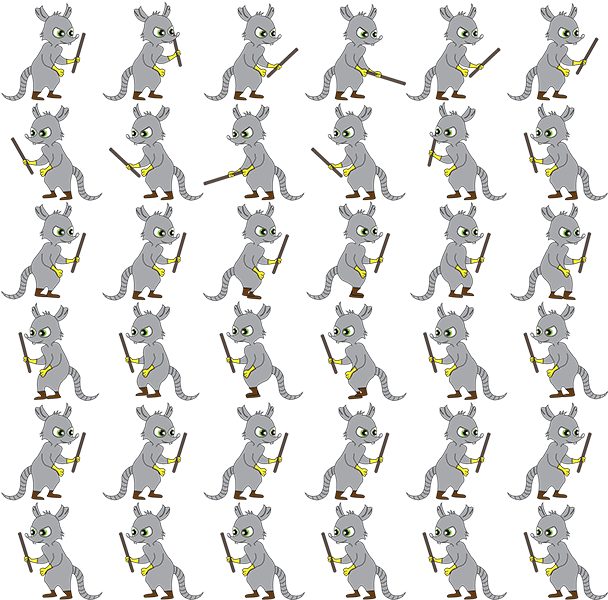
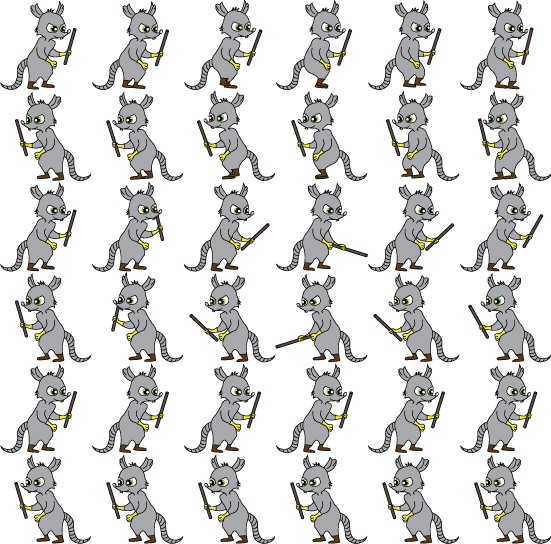
Match frames in Rat.Move with movement Fix #21
Now when flipping while hitting, the texture flips too.

diff --git a/src/Entities/Rat.cs b/src/Entities/Rat.cs
@@ -121,7 +121,6 @@ namespace Ratcycle
             {
 				_position.Y -= _speed.Y;
 
-                Console.WriteLine(_flip);
                 if (_flip)
                     ChangeFrame(3);
                 else
@@ -132,9 +131,9 @@ namespace Ratcycle
 				_position.Y += _speed.Y;
 
                 if (_flip)
-                    ChangeFrame(3);
+                    ChangeFrame(1);
                 else
-                    ChangeFrame(2);
+                    ChangeFrame(0);
 			}
 			if (KeyHandler.IsKeyDown(_left)) 
             {
@@ -143,7 +142,7 @@ namespace Ratcycle
 					_position.X += 25;
 				}
 
-				ChangeFrame (3);
+				ChangeFrame (1);
 				
 				_flip = true;
                 if (view.NotColliding(this, MakeFutureRectangle(Directions.Left), _minCoords, _maxCoords))
@@ -158,7 +157,7 @@ namespace Ratcycle
 						_position.X -= 25;
 					}
 
-					ChangeFrame (2);
+					ChangeFrame (0);
 					
 					_flip = false;
                     if (view.NotColliding(this, MakeFutureRectangle(Directions.Right), _minCoords, _maxCoords))
@@ -185,9 +184,9 @@ namespace Ratcycle
 
                 //Animate
 				if (_flip)
-					StartSingleMovement(1);
+					StartSingleMovement(3);
 				else
-					StartSingleMovement(0);
+					StartSingleMovement(2);
 				
                 ((Stage)_parentView).AttackHandler(this, _damage, AttackBox);
             }
@@ -229,7 +228,6 @@ namespace Ratcycle
 
             if (_remainingRegenTime <= 0 && _health < (100 * (0.75f * (float) Model.Stage.Reached)))
             {
-                Console.WriteLine(_health);
                 health += regen;
 
                 if (health > (100 * (0.75 * (float) Model.Stage.Reached)))

diff --git a/src/GameObjects/AtlasObject.cs b/src/GameObjects/AtlasObject.cs
@@ -20,7 +20,7 @@ namespace Ratcycle
         private float _rotation = 0f;
         private int _currentX, _currentY = 0;
         private Vector2 _origin = Vector2.Zero;
-		private bool _lockedInMovement = false;
+		private bool _lockedInMotion = false;
 
 		public virtual Rectangle HitBox
         {
@@ -92,7 +92,7 @@ namespace Ratcycle
 		/// <param name="y">The y coordinate.</param>
         public void ChangeFrame(int y)
         {
-			if (!_lockedInMovement) 
+			if (!_lockedInMotion) 
 			{
 				_currentY = y;
 				_sourceRectangle.Y = y * _frameHeight;
@@ -109,17 +109,21 @@ namespace Ratcycle
 				_currentX = x;
 				_sourceRectangle.X = x * _frameWidth;
 
-			if (!_lockedInMovement) 
+			if (!_lockedInMotion) 
 			{
 				_currentY = y;
 				_sourceRectangle.Y = y * _frameHeight;
 			}
         }
 
-		public void StartSingleMovement(int y)
+		public void StartSingleMotion(int y)
 		{
-			ChangeFrame (0, y);
-			_lockedInMovement = true;
+			_currentX = 0;
+			_sourceRectangle.X = 0;
+			_currentY = y;
+			_sourceRectangle.Y = y * _frameHeight;
+
+			_lockedInMotion = true;
 		}
 
 		/// <summary>
@@ -134,7 +138,7 @@ namespace Ratcycle
                 if (_currentX == _columns)
                 {
                     _currentX = 0;
-					_lockedInMovement = false;
+					_lockedInMotion = false;
                 }
 
                 ChangeFrame(_currentX, _currentY);
